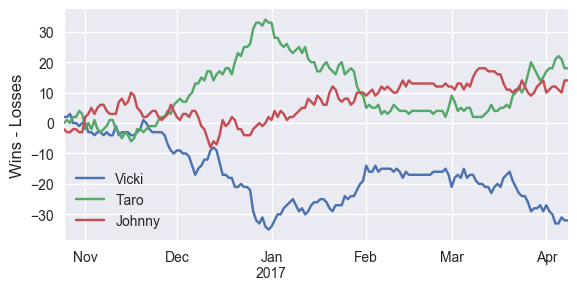
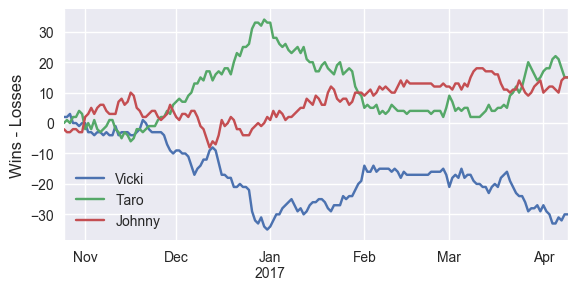
update 4/9

diff --git a/index.html b/index.html
@@ -35,7 +35,7 @@
 <a id="the-bet-is-on" class="anchor" href="#the-bet-is-on" aria-hidden="true"><span aria-hidden="true" class="octicon octicon-link"></span></a>The bet is on.</h1>
 
 <h1>
-<a id="current-winner-of-2016-17-season" class="anchor" href="#current-winner-of-2016-17-season" aria-hidden="true"><span aria-hidden="true" class="octicon octicon-link"></span></a>Current winner of 2016-17 Season (as of 4/8/2017):</h1>
+<a id="current-winner-of-2016-17-season" class="anchor" href="#current-winner-of-2016-17-season" aria-hidden="true"><span aria-hidden="true" class="octicon octicon-link"></span></a>Current winner of 2016-17 Season (as of 4/9/2017):</h1>
 
 <h2>
 <a id="none" class="anchor" href="#none" aria-hidden="true"><span aria-hidden="true" class="octicon octicon-link"></span></a><strong>Taro</strong>
@@ -44,23 +44,23 @@
 <h2>
 <a id="johnny" class="anchor" href="Johnny.html" aria-hidden="true"><span aria-hidden="true" class="octicon octicon-link"></span>Johnny</a></h2>
 
-<p>Wins: 402<br>
-Losses: 388<br>
-Remaining wins available: 25</p>
+<p>Wins: 405<br>
+Losses: 390<br>
+Remaining wins available: 20</p>
 
 <h2>
 <a id="taro" class="anchor" href="Taro.html" aria-hidden="true"><span aria-hidden="true" class="octicon octicon-link"></span>Taro</a></h2>
 
-<p>Wins: 405<br>
-Losses: 387<br>
-Remaining wins available: 26</p>
+<p>Wins: 406<br>
+Losses: 391<br>
+Remaining wins available: 21</p>
 
 <h2>
 <a id="vicki" class="anchor" href="Vicki.html" aria-hidden="true"><span aria-hidden="true" class="octicon octicon-link"></span>Vicki</a></h2>
 
-<p>Wins: 380<br>
-Losses: 412<br>
-Remaining wins available: 24</p>
+<p>Wins: 384<br>
+Losses: 414<br>
+Remaining wins available: 18</p>
 
 <img src='pythoncode/win_percent.png' alt='Winning Percentage Over Time'>
 <h1>

diff --git a/Vicki.html b/Vicki.html
@@ -35,9 +35,9 @@
 
 <h2>Vicki</h2>
 
-<p>Wins: 380<br>
-Losses: 412<br>
-Remaining wins available: 24</p>
+<p>Wins: 384<br>
+Losses: 414<br>
+Remaining wins available: 18</p>
 
 <h2> Current teams </h2>
 <table border="1">
@@ -49,9 +49,9 @@ Remaining wins available: 24</p>
 </tr>
 <tr>
 <td>Heat</td>
-<td>38</td>
+<td>39</td>
 <td>41</td>
-<td>3</td>
+<td>2</td>
 </tr>
 <tr>
 <td>Mavericks</td>
@@ -61,9 +61,9 @@ Remaining wins available: 24</p>
 </tr>
 <tr>
 <td>Trail Blazers</td>
-<td>39</td>
 <td>40</td>
-<td>3</td>
+<td>40</td>
+<td>2</td>
 </tr>
 <tr>
 <td>Cavaliers</td>
@@ -74,14 +74,14 @@ Remaining wins available: 24</p>
 <tr>
 <td>Bulls</td>
 <td>39</td>
-<td>40</td>
-<td>3</td>
+<td>41</td>
+<td>2</td>
 </tr>
 <tr>
 <td>76ers</td>
 <td>28</td>
-<td>51</td>
-<td>3</td>
+<td>52</td>
+<td>2</td>
 </tr>
 <tr>
 <td>Grizzlies</td>
@@ -91,9 +91,9 @@ Remaining wins available: 24</p>
 </tr>
 <tr>
 <td>Clippers</td>
-<td>48</td>
+<td>49</td>
 <td>31</td>
-<td>3</td>
+<td>2</td>
 </tr>
 <tr>
 <td>Suns</td>
@@ -103,9 +103,9 @@ Remaining wins available: 24</p>
 </tr>
 <tr>
 <td>Pacers</td>
-<td>39</td>
 <td>40</td>
-<td>3</td>
+<td>40</td>
+<td>2</td>
 </tr>
 </table>
 

diff --git a/Johnny.html b/Johnny.html
@@ -35,9 +35,9 @@
 
 <h2>Johnny</h2>
 
-<p>Wins: 402<br>
-Losses: 388<br>
-Remaining wins available: 25</p>
+<p>Wins: 405<br>
+Losses: 390<br>
+Remaining wins available: 20</p>
 
 <h2> Current teams </h2>
 <table border="1">
@@ -49,15 +49,15 @@ Remaining wins available: 25</p>
 </tr>
 <tr>
 <td>Bucks</td>
-<td>40</td>
+<td>41</td>
 <td>39</td>
-<td>3</td>
+<td>2</td>
 </tr>
 <tr>
 <td>Warriors</td>
-<td>65</td>
+<td>66</td>
 <td>14</td>
-<td>3</td>
+<td>2</td>
 </tr>
 <tr>
 <td>Timberwolves</td>
@@ -73,9 +73,9 @@ Remaining wins available: 25</p>
 </tr>
 <tr>
 <td>Celtics</td>
-<td>50</td>
+<td>51</td>
 <td>29</td>
-<td>3</td>
+<td>2</td>
 </tr>
 <tr>
 <td>Pistons</td>
@@ -92,8 +92,8 @@ Remaining wins available: 25</p>
 <tr>
 <td>Jazz</td>
 <td>49</td>
-<td>30</td>
-<td>3</td>
+<td>31</td>
+<td>2</td>
 </tr>
 <tr>
 <td>Lakers</td>
@@ -104,8 +104,8 @@ Remaining wins available: 25</p>
 <tr>
 <td>Magic</td>
 <td>28</td>
-<td>51</td>
-<td>3</td>
+<td>52</td>
+<td>2</td>
 </tr>
 </table>
 

diff --git a/Taro.html b/Taro.html
@@ -35,9 +35,9 @@
 
 <h2>Taro</h2>
 
-<p>Wins: 405<br>
-Losses: 387<br>
-Remaining wins available: 26</p>
+<p>Wins: 406<br>
+Losses: 391<br>
+Remaining wins available: 21</p>
 
 <h2> Current teams </h2>
 <table border="1">
@@ -55,9 +55,9 @@ Remaining wins available: 26</p>
 </tr>
 <tr>
 <td>Nets</td>
-<td>19</td>
+<td>20</td>
 <td>60</td>
-<td>3</td>
+<td>2</td>
 </tr>
 <tr>
 <td>Thunder</td>
@@ -74,14 +74,14 @@ Remaining wins available: 26</p>
 <tr>
 <td>Spurs</td>
 <td>61</td>
-<td>18</td>
-<td>3</td>
+<td>19</td>
+<td>2</td>
 </tr>
 <tr>
 <td>Hornets</td>
 <td>36</td>
-<td>43</td>
-<td>3</td>
+<td>44</td>
+<td>2</td>
 </tr>
 <tr>
 <td>Rockets</td>
@@ -92,8 +92,8 @@ Remaining wins available: 26</p>
 <tr>
 <td>Wizards</td>
 <td>48</td>
-<td>31</td>
-<td>3</td>
+<td>32</td>
+<td>2</td>
 </tr>
 <tr>
 <td>Kings</td>
@@ -104,8 +104,8 @@ Remaining wins available: 26</p>
 <tr>
 <td>Pelicans</td>
 <td>33</td>
-<td>46</td>
-<td>3</td>
+<td>47</td>
+<td>2</td>
 </tr>
 </table>
 
